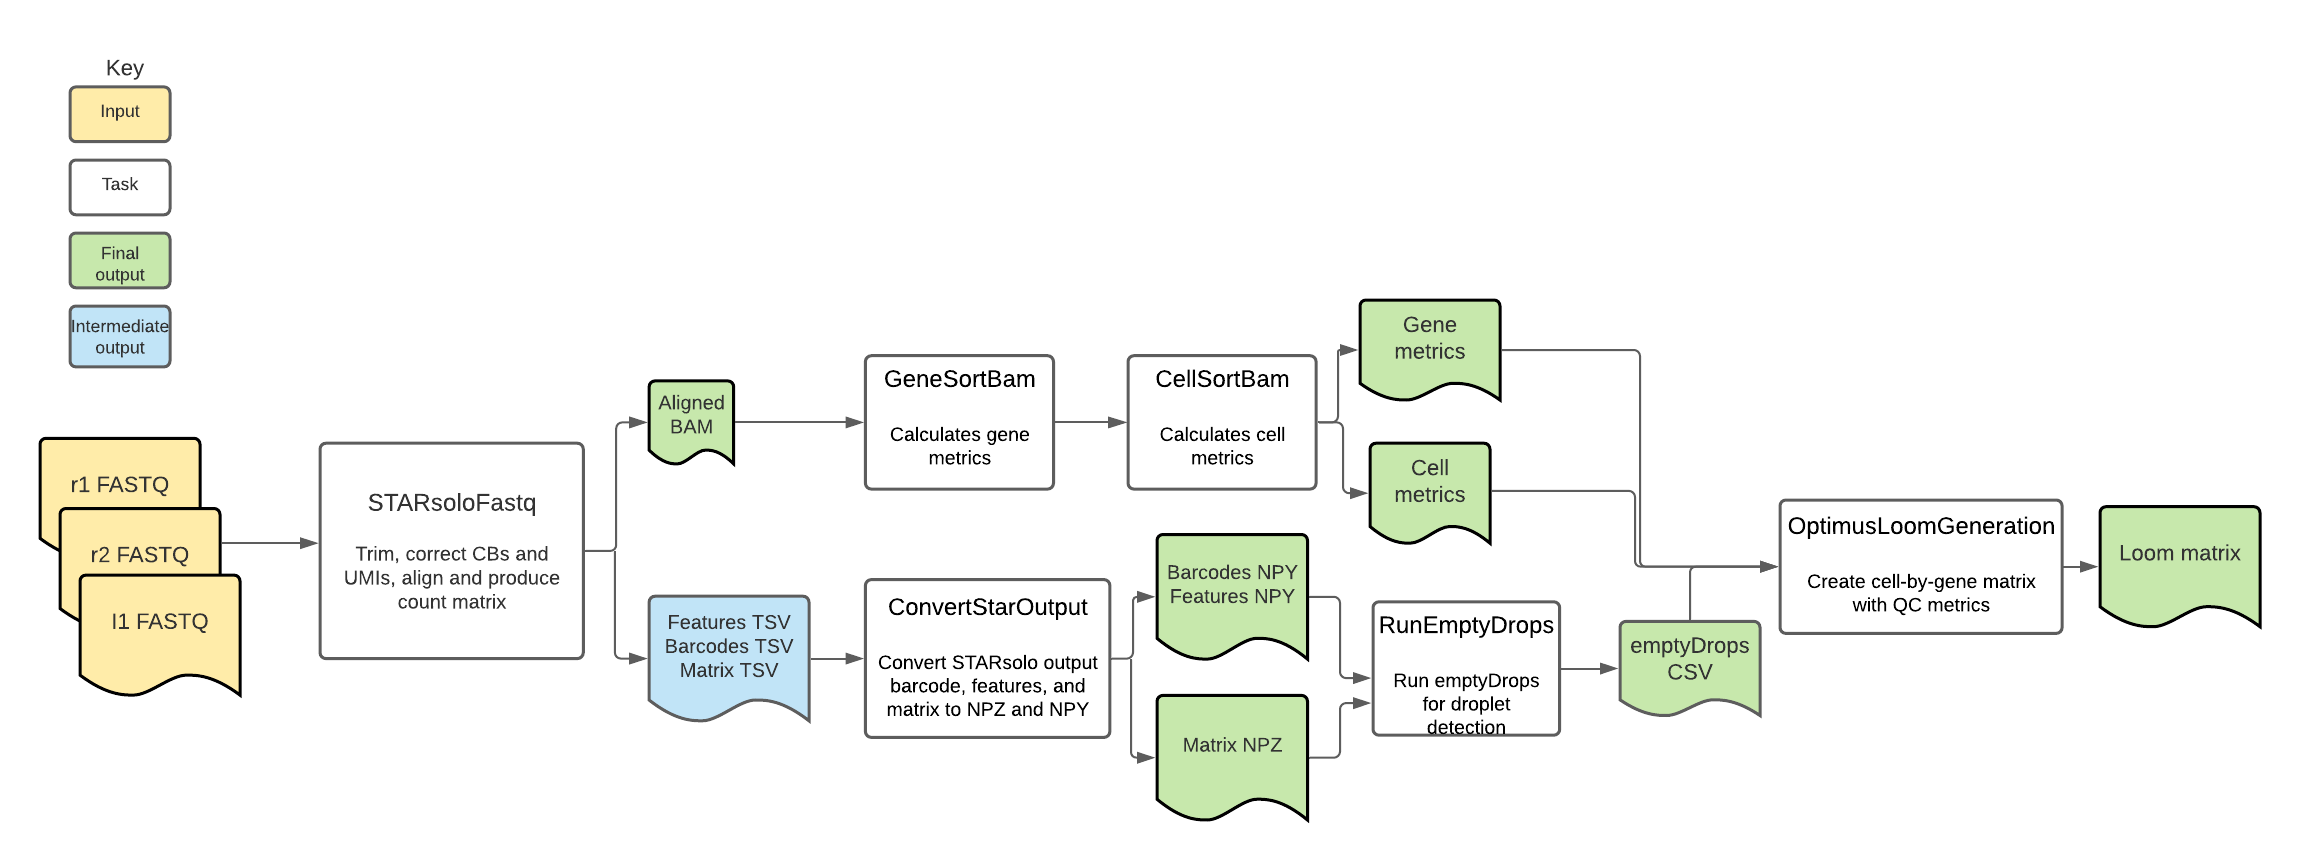
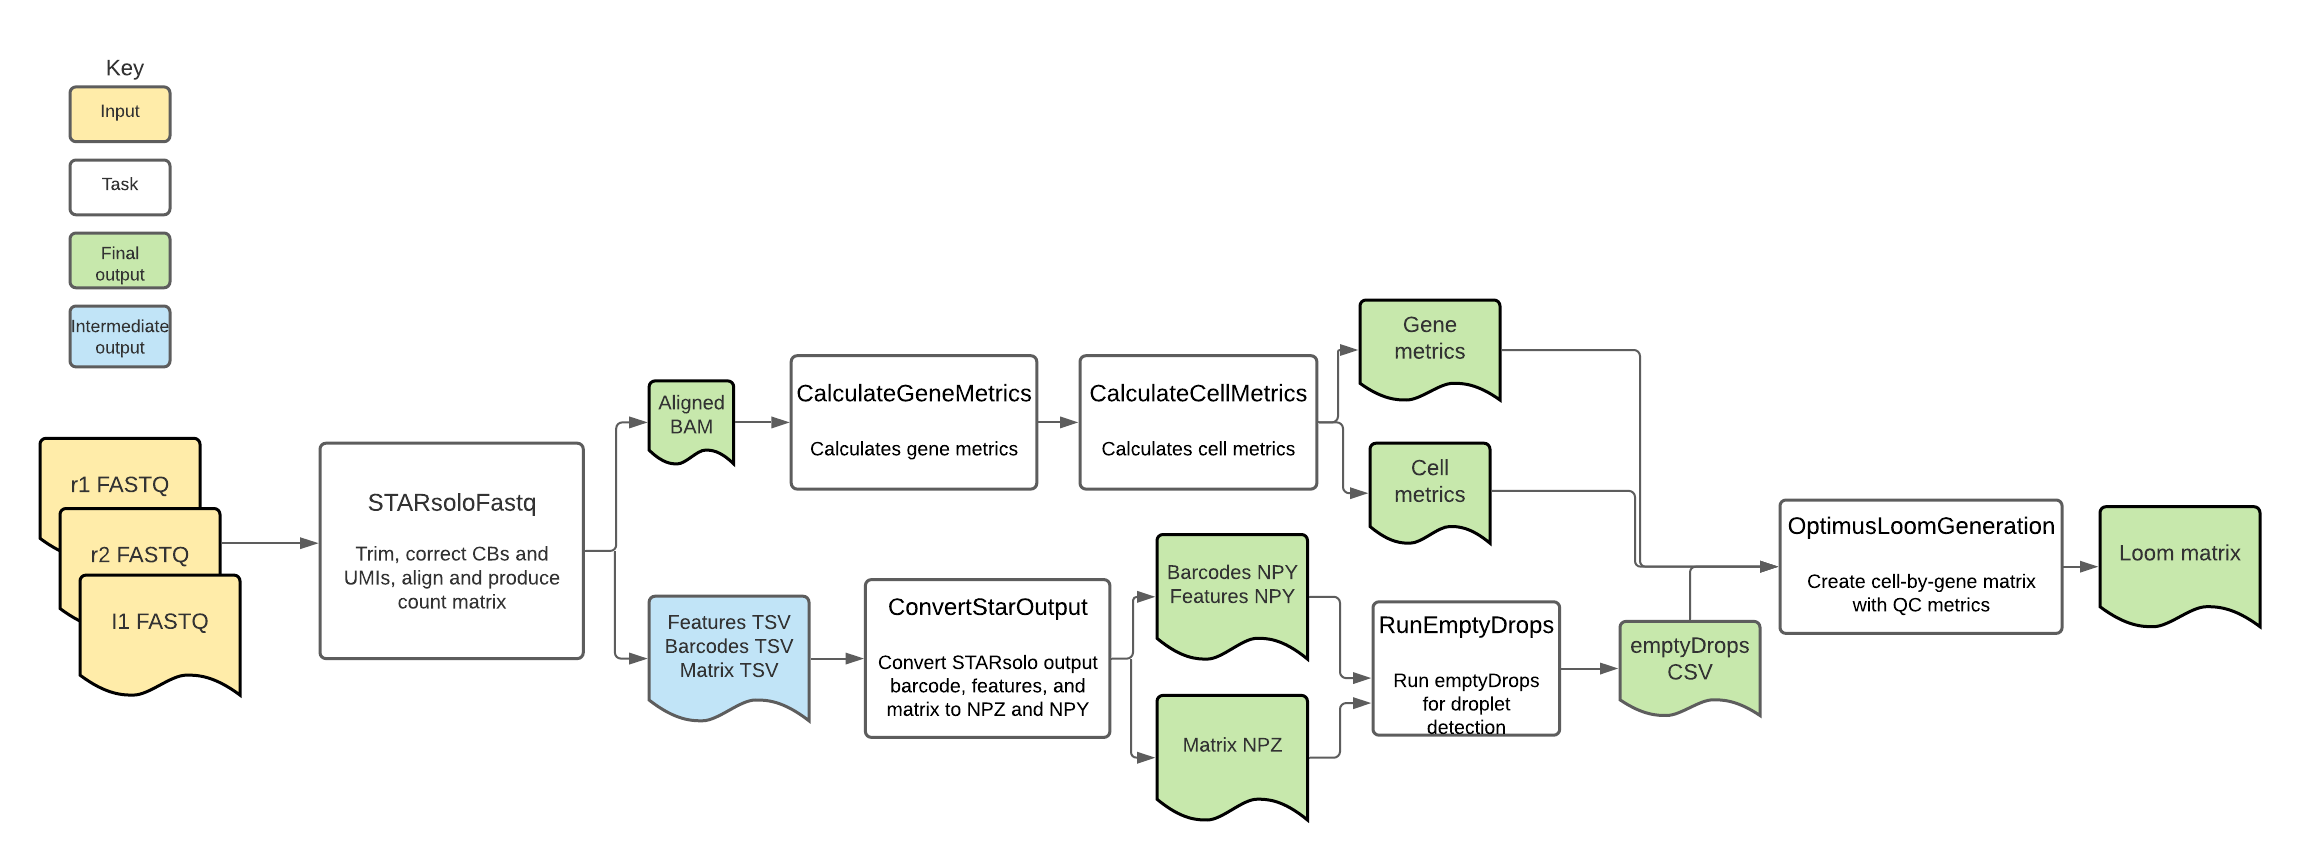
Removed tagsortbam from documentation

Changed region(s): [[0.3396, 0.393, 0.5865, 0.5744]]

diff --git a/website/docs/Pipelines/Optimus_Pipeline/README.md b/website/docs/Pipelines/Optimus_Pipeline/README.md
@@ -119,9 +119,9 @@ To see specific tool parameters, select the task WDL link in the table; then vie
 | Task name and WDL link | Tool | Software | Description | 
 | --- | --- | --- | ------------------------------------ | 
 | [StarAlign.STARsoloFastq (alias = STARsoloFastq)](https://github.com/broadinstitute/warp/blob/master/tasks/skylab/StarAlign.wdl) | STAR | [Star v2.7.9a]((https://github.com/alexdobin/STAR) | Uses the input FASTQ files to perform cell barcode correction, adaptor trimming, alignment, gene annotation, UMI correction, and gene counting. |
-| [TagSortBam.GeneSortBam (alias = GeneMetrics)](https://github.com/broadinstitute/warp/blob/master/tasks/skylab/TagSortBam.wdl) | TagSort | sctools | Sorts the BAM file by gene using the cell barcode (CB), molecule barcode (UB) and gene ID (GX) tags and computes gene metrics. | 
-| [TagSortBam.CellSortBam (alias = CellMetrics)](https://github.com/broadinstitute/warp/blob/master/tasks/skylab/TagSortBam.wdl) | TagSort | sctools | Sorts the BAM file by cell using the cell barcode (CB), molecule barcode (UB) and gene ID (GX) tags and computes cell metrics. |
-| [ConvertStarOutput.ConvertStarOutput (alias = ConvertOutputs)](https://github.com/broadinstitute/warp/blob/master/tasks/skylab/ConvertStarOutput.wdl) | create-npz-output.py | Python3 | Creates a compressed raw NPY or NPZ file containing the STARsolo output features (NPY), barcodes (NPZ) and counts (NPZ). | 
+| [Metrics.CalculateGeneMetrics (alias = GeneMetrics)](https://github.com/broadinstitute/warp/blob/master/tasks/skylab/Metrics.wdl) | TagSort | sctools | Sorts the BAM file by gene using the cell barcode (CB), molecule barcode (UB) and gene ID (GX) tags and computes gene metrics. | 
+| [Metrics.CalculateCellMetrics (alias = CellMetrics)](https://github.com/broadinstitute/warp/blob/master/tasks/skylab/Metrics.wdl) | TagSort | sctools | Sorts the BAM file by cell using the cell barcode (CB), molecule barcode (UB) and gene ID (GX) tags and computes cell metrics. |
+| [StarAlign.ConvertStarOutput (alias = ConvertOutputs)](https://github.com/broadinstitute/warp/blob/master/tasks/skylab/StarAlign.wdl) | create-npz-output.py | Python3 | Creates a compressed raw NPY or NPZ file containing the STARsolo output features (NPY), barcodes (NPZ) and counts (NPZ). | 
 | [RunEmptyDrops.RunEmptyDrops](https://github.com/broadinstitute/warp/blob/master/tasks/skylab/RunEmptyDrops.wdl) | npz2rds.sh, emptyDropsWrapper.R, emptyDrops | [DroploetUtils](https://bioconductor.org/packages/release/bioc/html/DropletUtils.html) | Runs custom scripts to convert the NPY and NPZ files to RDS and then uses emptyDrops to identify empty lipid droplets. |
 |  [LoomUtils.OptimusLoomGeneration](https://github.com/broadinstitute/warp/blob/master/tasks/skylab/LoomUtils.wdl) | create_loom_optimus.py | Python3 | Merges the gene counts, cell metrics, gene metrics, and emptyDrops data into a Loom formatted cell-by-gene matrix. |
 
@@ -171,16 +171,16 @@ The task’s output includes a coordinate-sorted BAM file containing the cell ba
 
 #### 2. Calculate gene metrics
 
-The [GeneSortBam](https://github.com/broadinstitute/warp/blob/master/tasks/skylab/TagSortBam.wdl) task uses [sctools](https://github.com/HumanCellAtlas/sctools) to calculate summary metrics that help assess the quality of the data output each time this pipeline is run. These metrics are included in the output Loom matrix. A detailed list of these metrics is found in the [Optimus Count Matrix Overview](./Loom_schema.md).
+The [GeneSortBam](https://github.com/broadinstitute/warp/blob/master/tasks/skylab/Metrics.wdl) task uses [sctools](https://github.com/HumanCellAtlas/sctools) to calculate summary metrics that help assess the quality of the data output each time this pipeline is run. These metrics are included in the output Loom matrix. A detailed list of these metrics is found in the [Optimus Count Matrix Overview](./Loom_schema.md).
 
 #### 3. Calculate cell metrics
 
-The [CellSortBam](https://github.com/broadinstitute/warp/blob/master/tasks/skylab/TagSortBam.wdl) task uses [sctools](https://github.com/HumanCellAtlas/sctools) to calculate summary metrics that help assess the per-cell quality of the data output each time this pipeline is run. These metrics are included in the output Loom matrix. A detailed list of these metrics is found in the [Optimus Count Matrix Overview](./Loom_schema.md).
+The [CellSortBam](https://github.com/broadinstitute/warp/blob/master/tasks/skylab/Metrics.wdl) task uses [sctools](https://github.com/HumanCellAtlas/sctools) to calculate summary metrics that help assess the per-cell quality of the data output each time this pipeline is run. These metrics are included in the output Loom matrix. A detailed list of these metrics is found in the [Optimus Count Matrix Overview](./Loom_schema.md).
 
 
 #### 4. Convert STAR output
 
-The [ConvertStarOutput](https://github.com/broadinstitute/warp/blob/master/tasks/skylab/ConvertStarOutput.wdl) task uses a custom python script to convert the matrix, features, and barcodes output from STARsolo into an NPY (features and barcodes)- and NPZ (the matrix)-formatted file for downstream empty drops detection and Loom matrix generation. 
+The [ConvertStarOutput](https://github.com/broadinstitute/warp/blob/master/tasks/skylab/StarAlign.wdl) task uses a custom python script to convert the matrix, features, and barcodes output from STARsolo into an NPY (features and barcodes)- and NPZ (the matrix)-formatted file for downstream empty drops detection and Loom matrix generation. 
 
 #### 5. Run emptyDrops
 
